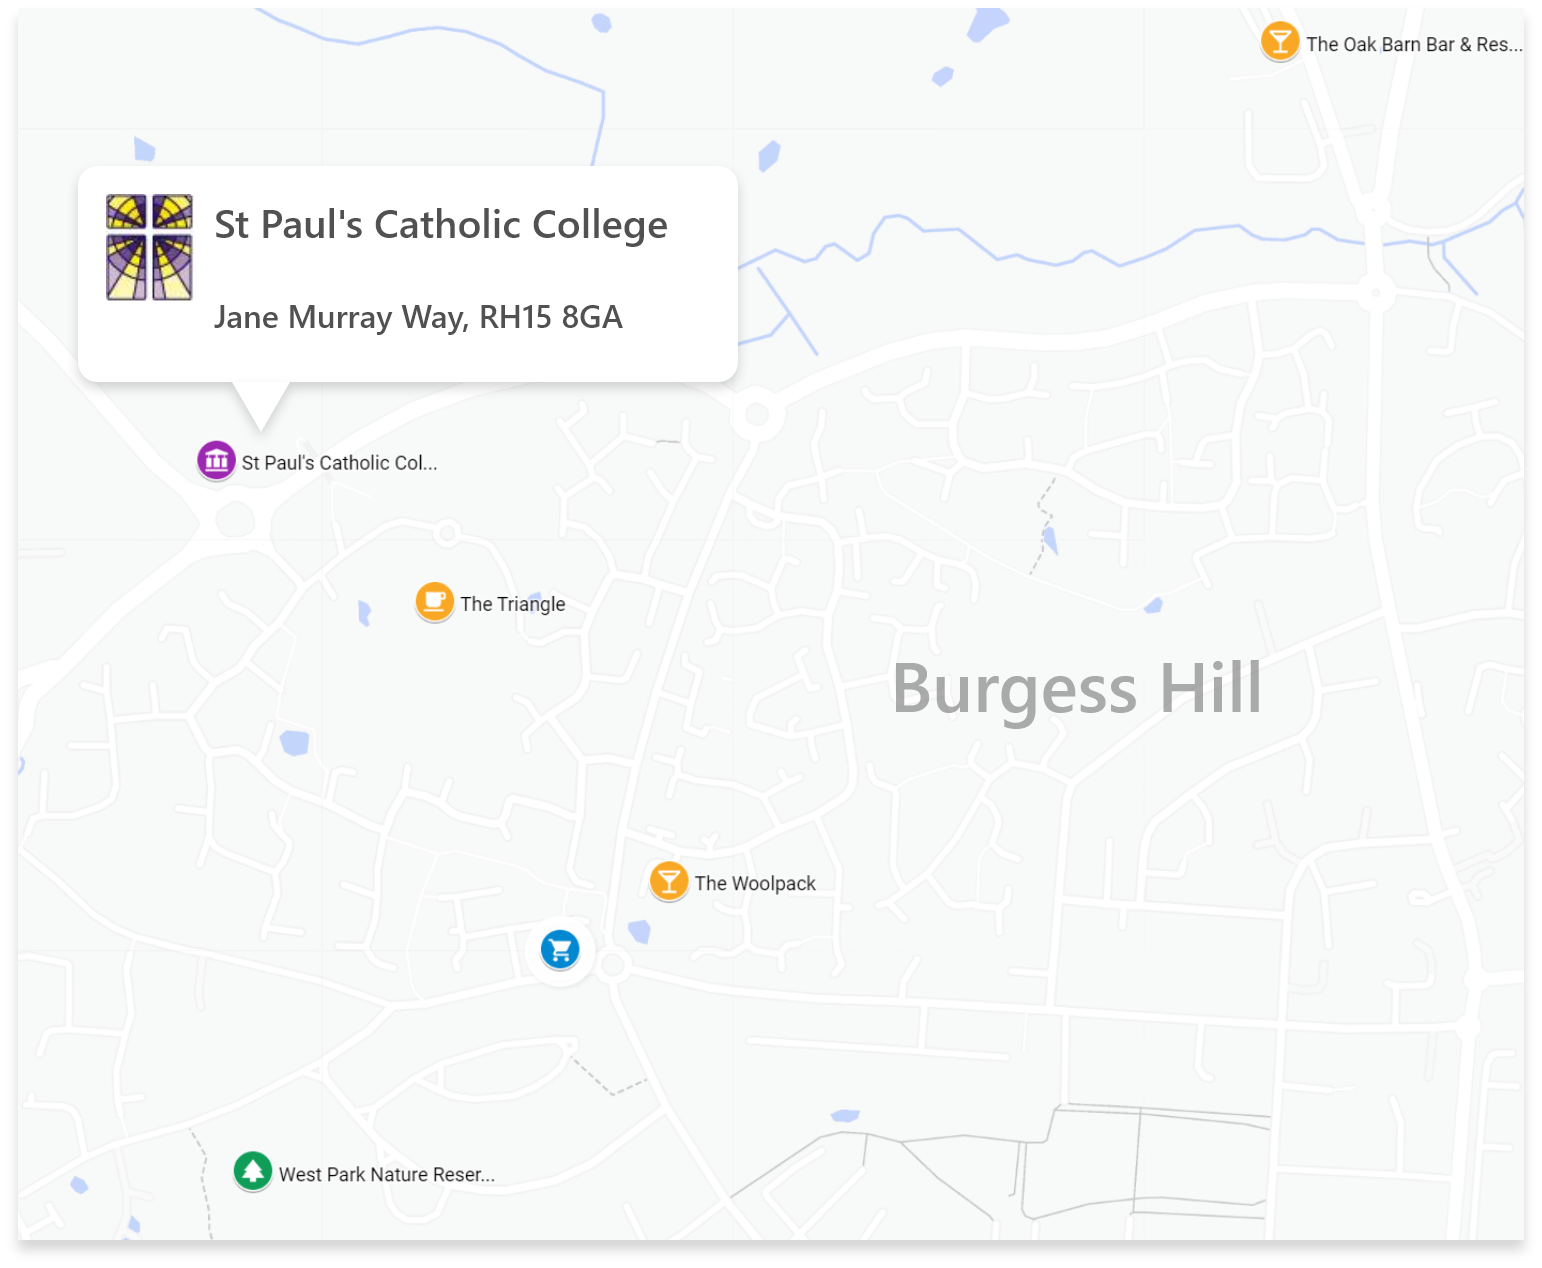
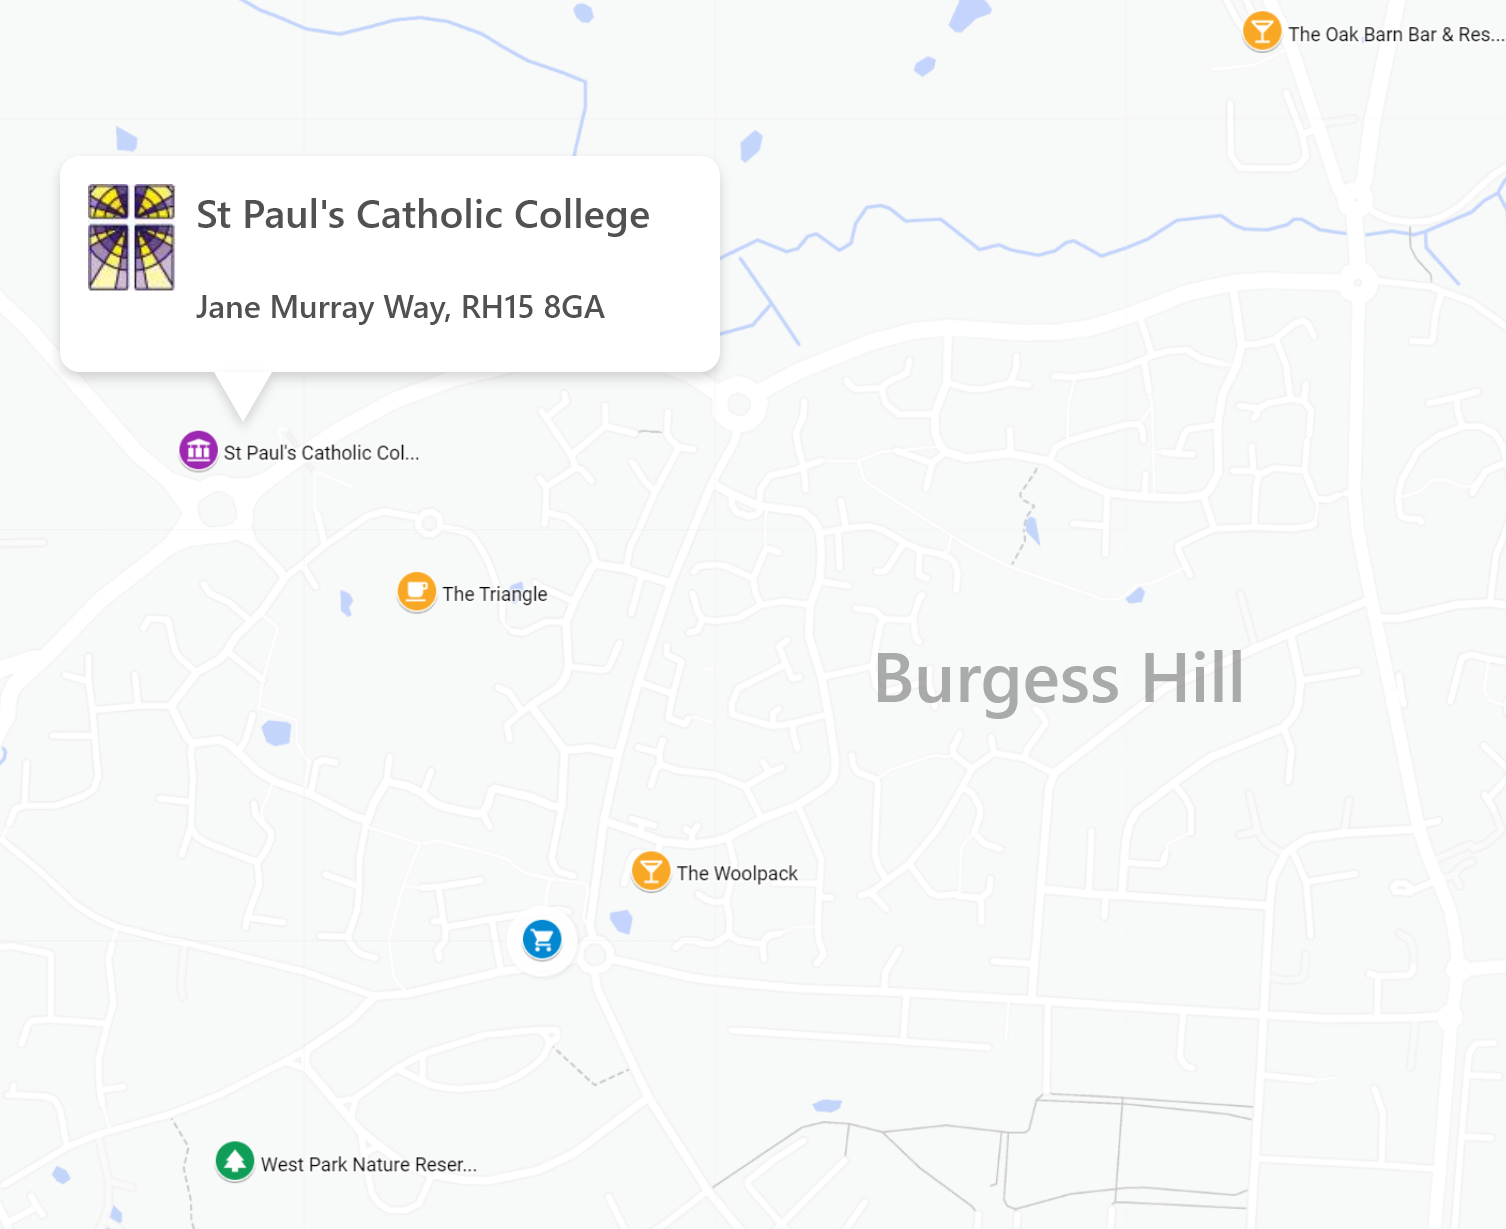
edited image

diff --git a/careersPage.js b/careersPage.js
@@ -327,7 +327,7 @@ function global(){
 
   setImage('id', 'contact-us-image', 'url("/DataFiles/CareerPage/209267/0/819a1e4a-0b14-4384-8188-d429ffc1a201_600_0.jpg")');
 
-  setImage('id', 'location-map-image', 'url("/DataFiles/CareerPage/209267/258588/307742_600_0.png")');
+  setImage('id', 'location-map-image', 'url("https://cdn.jsdelivr.net/gh/tg322/Careers-Page@latest/Group%2045.png")');
 }
 
 function destroyDesktopEventListeners(){
